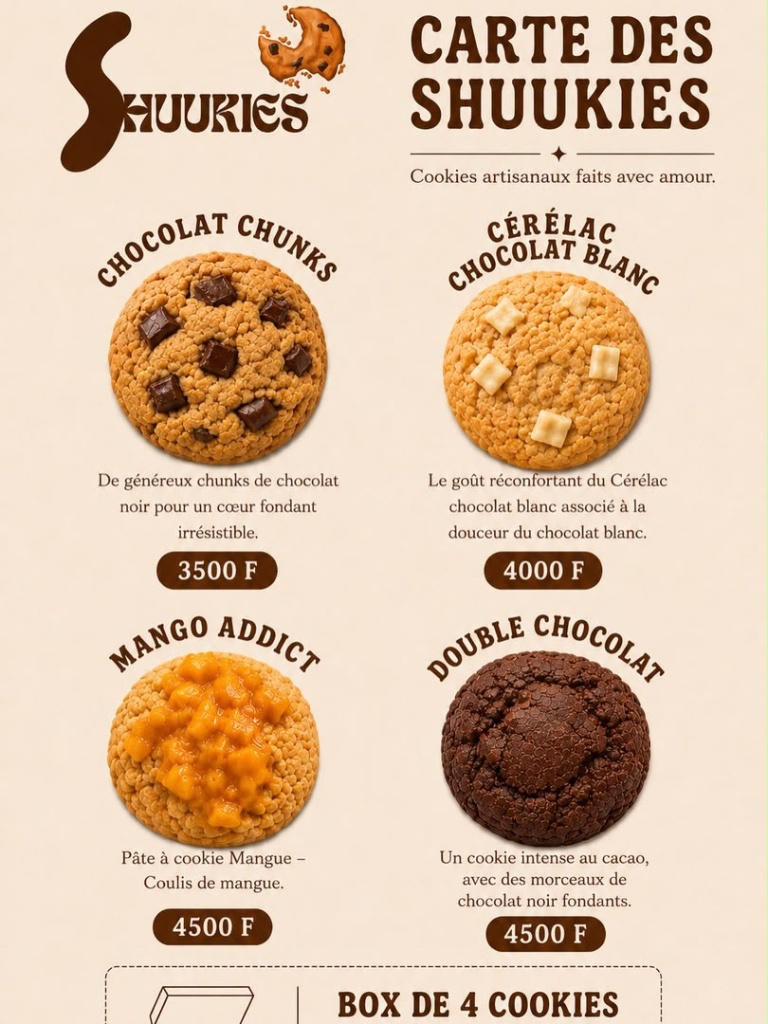
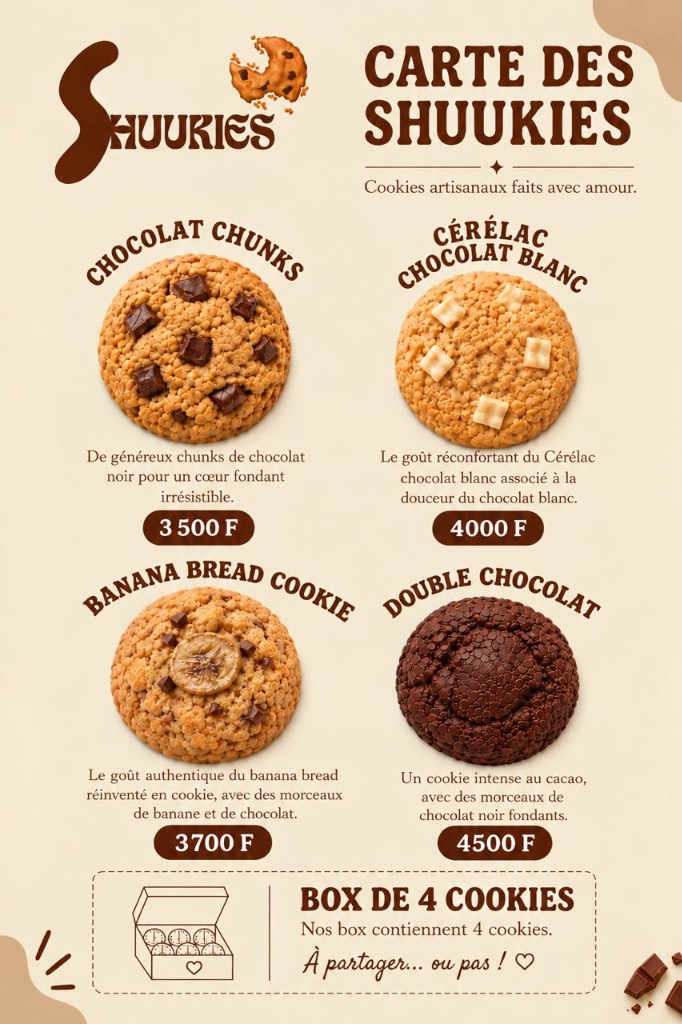
feat: mise a jour de la carte avec Banana Bread Cookie

diff --git a/index.html b/index.html
@@ -131,7 +131,7 @@
                 <span>✦</span>
                 <span>CÉRÉLAC CHOCOLAT BLANC <svg class="fun-svg" viewBox="0 0 24 24" width="22" height="22" fill="none" stroke="currentColor" stroke-width="2.5" style="display:inline-block; vertical-align:middle;"><circle cx="12" cy="12" r="10"/><path d="M12 8a4 4 0 0 0-4 4"/></svg></span>
                 <span>✦</span>
-                <span>MANGO ADDICT <svg class="fun-svg" viewBox="0 0 24 24" width="22" height="22" fill="none" stroke="currentColor" stroke-width="2.5" style="display:inline-block; vertical-align:middle;"><path d="M12 2a10 10 0 1 0 10 10A10 10 0 0 0 12 2zm1 5a1 1 0 1 1-1-1 1 1 0 0 1 1 1zm-4 3a1 1 0 1 1-1-1 1 1 0 0 1 1 1zm6 1a1 1 0 1 1-1-1 1 1 0 0 1 1 1zm-5 5a1 1 0 1 1-1-1 1 1 0 0 1 1 1zm5-1a1 1 0 1 1-1-1 1 1 0 0 1 1 1z"/></svg></span>
+                <span>BANANA BREAD COOKIE <svg class="fun-svg" viewBox="0 0 24 24" width="22" height="22" fill="none" stroke="currentColor" stroke-width="2.5" style="display:inline-block; vertical-align:middle;"><path d="M12 2a10 10 0 1 0 10 10A10 10 0 0 0 12 2zm1 5a1 1 0 1 1-1-1 1 1 0 0 1 1 1zm-4 3a1 1 0 1 1-1-1 1 1 0 0 1 1 1zm6 1a1 1 0 1 1-1-1 1 1 0 0 1 1 1zm-5 5a1 1 0 1 1-1-1 1 1 0 0 1 1 1zm5-1a1 1 0 1 1-1-1 1 1 0 0 1 1 1z"/></svg></span>
                 <span>✦</span>
                 <span>DOUBLE CHOCOLAT <svg class="fun-svg" viewBox="0 0 24 24" width="22" height="22" fill="currentColor" style="display:inline-block; vertical-align:middle; color:var(--color-primary);"><path d="M12 21.35l-1.45-1.32C5.4 15.36 2 12.28 2 8.5 2 5.42 4.42 3 7.5 3c1.74 0 3.41.81 4.5 2.09C13.09 3.81 14.76 3 16.5 3 19.58 3 22 5.42 22 8.5c0 3.78-3.4 6.86-8.55 11.54L12 21.35z"/></svg></span>
                 <span>✦</span>
@@ -325,7 +325,7 @@
                     <li><a href="#produits">La Carte</a></li>
                     <li><a href="#produits">Chocolat Chunks</a></li>
                     <li><a href="#produits">Cérélac Chocolat Blanc</a></li>
-                    <li><a href="#produits">Mango Addict</a></li>
+                    <li><a href="#produits">Banana Bread Cookie</a></li>
                     <li><a href="#produits">Double Chocolat</a></li>
                 </ul>
             </div>

diff --git a/server.js b/server.js
@@ -1,0 +1,47 @@
+const http = require('http');
+const fs = require('fs');
+const path = require('path');
+
+const PORT = 8080;
+const MIME_TYPES = {
+    '.html': 'text/html; charset=UTF-8',
+    '.css': 'text/css; charset=UTF-8',
+    '.js': 'application/javascript; charset=UTF-8',
+    '.json': 'application/json',
+    '.png': 'image/png',
+    '.jpg': 'image/jpeg',
+    '.jpeg': 'image/jpeg',
+    '.svg': 'image/svg+xml',
+    '.ico': 'image/x-icon',
+    '.woff2': 'font/woff2',
+    '.woff': 'font/woff',
+    '.ttf': 'font/ttf'
+};
+
+const server = http.createServer((req, res) => {
+    let safePath = path.normalize(decodeURI(req.url.split('?')[0])).replace(/^(\.\.[\/\\])+/, '');
+    if (safePath === '/' || safePath === '') safePath = '/index.html';
+    
+    const filePath = path.join(__dirname, safePath);
+
+    fs.stat(filePath, (err, stats) => {
+        if (err || !stats.isFile()) {
+            res.writeHead(404, { 'Content-Type': 'text/plain; charset=UTF-8' });
+            res.end('404 Not Found');
+            return;
+        }
+
+        const ext = path.extname(filePath).toLowerCase();
+        const contentType = MIME_TYPES[ext] || 'application/octet-stream';
+
+        res.writeHead(200, {
+            'Content-Type': contentType,
+            'Cache-Control': 'no-cache, no-store, must-revalidate'
+        });
+        fs.createReadStream(filePath).pipe(res);
+    });
+});
+
+server.listen(PORT, '0.0.0.0', () => {
+    console.log(`Shuukies server running at http://localhost:${PORT}/`);
+});

diff --git a/flyers.html b/flyers.html
@@ -913,12 +913,12 @@
 
                         <div class="menu-item-wrapper">
                             <div class="menu-item">
-                                <span class="item-name" contenteditable="true">Shuukies Mango Addict</span>
+                                <span class="item-name" contenteditable="true">Shuukies Banana Bread Cookie</span>
                                 <span class="item-dots"></span>
-                                <span class="item-price" contenteditable="true">4 500 FCFA</span>
-                                <span class="badge-status" style="background: #f97316;">Nouveau</span>
+                                <span class="item-price" contenteditable="true">3 700 FCFA</span>
+                                <span class="badge-status" style="background: #eab308; color: #3d280d;">Nouveau</span>
                             </div>
-                            <div class="item-desc" contenteditable="true">Pâte à cookie Mangue – Coulis de mangue gourmand.</div>
+                            <div class="item-desc" contenteditable="true">Le goût authentique du banana bread réinventé en cookie, avec des morceaux de banane et de chocolat.</div>
                         </div>
 
                         <div class="menu-item-wrapper">

diff --git a/app.js b/app.js
@@ -23,11 +23,11 @@ const PRODUCTS = [
         available: true
     },
     {
-        id: "mango-addict",
-        name: "Shuukies Mango Addict",
-        description: "Pâte à cookie Mangue – Coulis de mangue gourmand.",
-        price: 4500,
-        image: "images/cookie_mango_addict.jpeg",
+        id: "banana-bread-cookie",
+        name: "Shuukies Banana Bread Cookie",
+        description: "Le goût authentique du banana bread réinventé en cookie, avec des morceaux de banane et de chocolat.",
+        price: 3700,
+        image: "images/cookie_banana_bread.jpeg",
         tag: "Box de 4",
         available: true
     },
